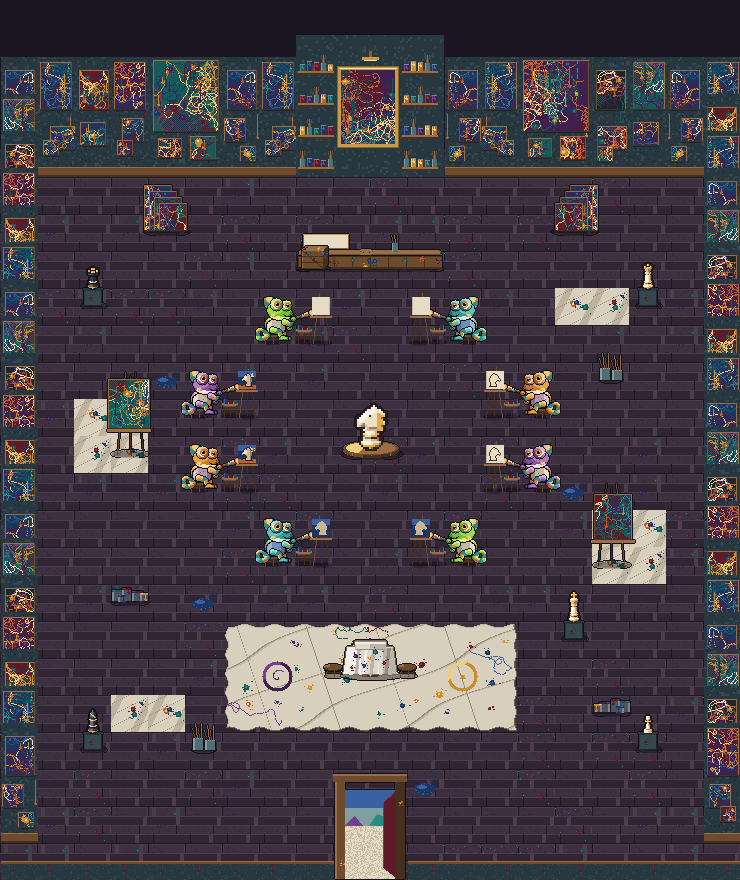
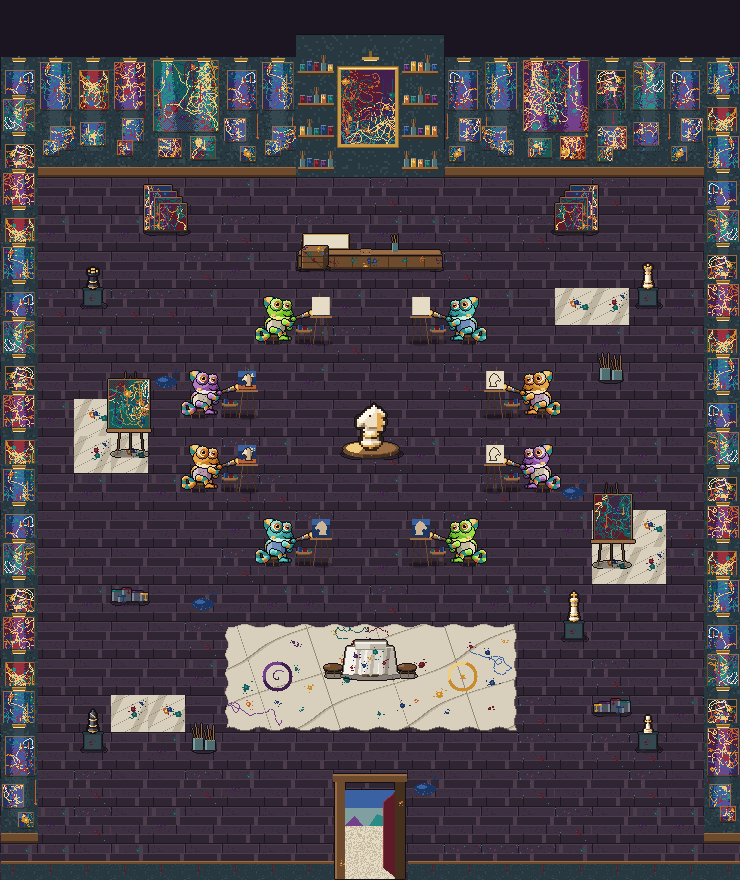
Smudgy's studio: gallery picture lights (Eric: "lighting that comes down on the walls like in an art gallery"): a brass lamp atop every wall panel, its warm cone baked into the panel, its bulb and its wash lit at every placement; no lamps over the floor, the room's brightness as it was; the unit tes
Claude-Session: https://claude.ai/code/session_01EKH5j59nMnRVnekEcuZbim

diff --git a/packages/app/src/town/shops/smudgy-art.ts b/packages/app/src/town/shops/smudgy-art.ts
@@ -190,6 +190,34 @@ function hang(c: Cv, x: number, y: number, w: number, h: number, seed: number, g
   abstract(c, x, y, w, h, seed, ground ?? ["B", "P", "T", "R", "9"][seed % 5]);
   frame(c, x, y, w, h);
 }
+/**
+ * A gallery picture light at the top of a panel (Eric, Nov 6: "lighting that comes down on the walls like in an art gallery"): a small
+ * brass hood on a short arm, its bulb strip under it (`L`, the light's keys), and its warm wash baked into the panel below it: a cone
+ * widening down the wall in which the plaster and the canvases' paints go a shade lighter (dithered at its edge), so the canvases glow
+ * where it falls. The room's light (SHOP_SMUDGY_LIGHTS) and the wash's soft glow (SHOP_SMUDGY_POOLS) are at every placement.
+ */
+export const PICTURE_LIGHT = { x: 18, bulbY: 15, top: 16, bottom: 104, w0: 5, w1: 15 } as const;
+const LIGHTER: Record<string, string> = { "9": "0", "0": "!", T: "t", B: "b", R: "r", P: "p", Y: "y", O: "y", V: "W", v: "V", g: "G" };
+function pictureLight(c: Cv) {
+  const L = PICTURE_LIGHT;
+  for (let y = L.top; y < L.bottom; y++) {
+    const u = (y - L.top) / (L.bottom - L.top);
+    const half = L.w0 + (L.w1 - L.w0) * u;
+    for (let x = 0; x < T; x++) {
+      const d = Math.abs(x + 0.5 - L.x) / half;
+      if (d > 1) continue;
+      // (Strongest near the lamp and the cone's middle; its edge and its far end dithered off.)
+      const keep = 1 - d * d * 0.7 - u * 0.5;
+      if (keep < 0.5 && hash(x, y, 99) > keep * 1.6) continue;
+      const k = c[y]![x]!;
+      if (LIGHTER[k]) c[y]![x] = LIGHTER[k]!;
+    }
+  }
+  rect(c, L.x - 1, 9, 2, 3, "M");
+  rect(c, L.x - 7, 11, 14, 3, "g");
+  rect(c, L.x - 7, 11, 14, 1, "G");
+  rect(c, L.x - 6, 14, 12, 1, "L");
+}
 const wallDef = (name: string, c: Cv) => def(name, [1, 1], T, WALL_H, WF, [[whole(c)]]);
 for (let i = 0; i < 6; i++) {
   const c = plaster(10 + i);
@@ -198,6 +226,7 @@ for (let i = 0; i < 6; i++) {
   hang(c, big[0]!, big[1]!, big[2]!, big[3]!, 30 + i * 7);
   hang(c, (i * 7) % 12 + 2, 72 + (i % 3) * 4, 20 + (i % 3) * 4, 22, 50 + i * 5);
   if (i % 3 !== 1) hang(c, 18 - (i % 2) * 12, 100 - (i % 2) * 6, 14, 14, 70 + i);
+  pictureLight(c);
   wallDef(`wall-${i}`, c);
 }
 /** One canvas so big it runs across two panels (the back wall's centerpieces): the west half and the east. */
@@ -213,6 +242,7 @@ for (const [n, seed] of [["wall-wide", 91], ["wall-wide-b", 92]] as const) {
   for (let half = 0; half < 2; half++) {
     const p = cv(T, WALL_H);
     for (let y = 0; y < WALL_H; y++) for (let x = 0; x < T; x++) p[y]![x] = c[y]![x + half * T]!;
+    pictureLight(p);
     wallDef(`${n}-${half}`, p);
   }
 }
@@ -593,11 +623,21 @@ for (const [v, colors] of PAINTER_COLORS.entries()) {
 /** The battle spot's table under its cloth (the room's own; in the intro the cloth is whipped off it: smudgy-intro-art.ts). */
 def("table", [2, 1], 3 * T, 60, [TCX, TFOOT], [[whole(coveredTableCv(), true)]]);
 
-// ==== Lights: the lamp over the backdrop's best piece; a warm pool on the life class's platform (a skylight's), one by the counter.
+// ==== Lights: the lamp over the backdrop's best piece; every wall panel's picture light and its wash; a warm pool on the life class's
+// platform (a skylight's), one by the counter.
 
 const WARM = "#ffd38a";
-export const SHOP_SMUDGY_LIGHTS: readonly (LightSpot & { piece: string })[] = [{ piece: "backdrop", x: LAMP.x - 8, y: LAMP.y + 2, w: 17, h: 3, keys: "GL", color: WARM, strength: 0.6, halo: 26 }];
+/** Every wall panel (the back wall's and the side walls'), each with its picture light. */
+export const WALL_PANELS: readonly string[] = [...[0, 1, 2, 3, 4, 5].map((i) => `wall-${i}`), "wall-wide-0", "wall-wide-1", "wall-wide-b-0", "wall-wide-b-1"];
+const PL = PICTURE_LIGHT;
+export const SHOP_SMUDGY_LIGHTS: readonly (LightSpot & { piece: string })[] = [
+  { piece: "backdrop", x: LAMP.x - 8, y: LAMP.y + 2, w: 17, h: 3, keys: "GL", color: WARM, strength: 0.6, halo: 26 },
+  // (Each panel's picture light: its bulb strip, a small halo round it.)
+  ...WALL_PANELS.map((piece) => ({ piece, x: PL.x - 6, y: PL.bulbY - 1, w: 12, h: 1, keys: "L", color: WARM, strength: 0.5, halo: 9 })),
+];
 export const SHOP_SMUDGY_POOLS: readonly (LightPool & { piece: string })[] = [
+  // (Each picture light's wash down its panel: a tall soft glow over the lit cone, on the wall.)
+  ...WALL_PANELS.map((piece) => ({ piece, x: PL.x, y: Math.round((PL.top + PL.bottom) / 2) - 8, rx: 11, ry: 30, color: "#ffd9a0", strength: 0.22 })),
   { piece: "platform", x: PLW / 2, y: PLF - 4, rx: 70, ry: 34, color: "#ffe2b0", strength: 0.28 },
   { piece: "backdrop", x: BDW / 2, y: BDH + 10, rx: 46, ry: 10, color: WARM, strength: 0.16 },
 ];

diff --git a/scripts/boss-art/out/house-shop-smudgy/house-shop-smudgy.ts b/scripts/boss-art/out/house-shop-smudgy/house-shop-smudgy.ts
@@ -190,6 +190,34 @@ function hang(c: Cv, x: number, y: number, w: number, h: number, seed: number, g
   abstract(c, x, y, w, h, seed, ground ?? ["B", "P", "T", "R", "9"][seed % 5]);
   frame(c, x, y, w, h);
 }
+/**
+ * A gallery picture light at the top of a panel (Eric, Nov 6: "lighting that comes down on the walls like in an art gallery"): a small
+ * brass hood on a short arm, its bulb strip under it (`L`, the light's keys), and its warm wash baked into the panel below it: a cone
+ * widening down the wall in which the plaster and the canvases' paints go a shade lighter (dithered at its edge), so the canvases glow
+ * where it falls. The room's light (SHOP_SMUDGY_LIGHTS) and the wash's soft glow (SHOP_SMUDGY_POOLS) are at every placement.
+ */
+export const PICTURE_LIGHT = { x: 18, bulbY: 15, top: 16, bottom: 104, w0: 5, w1: 15 } as const;
+const LIGHTER: Record<string, string> = { "9": "0", "0": "!", T: "t", B: "b", R: "r", P: "p", Y: "y", O: "y", V: "W", v: "V", g: "G" };
+function pictureLight(c: Cv) {
+  const L = PICTURE_LIGHT;
+  for (let y = L.top; y < L.bottom; y++) {
+    const u = (y - L.top) / (L.bottom - L.top);
+    const half = L.w0 + (L.w1 - L.w0) * u;
+    for (let x = 0; x < T; x++) {
+      const d = Math.abs(x + 0.5 - L.x) / half;
+      if (d > 1) continue;
+      // (Strongest near the lamp and the cone's middle; its edge and its far end dithered off.)
+      const keep = 1 - d * d * 0.7 - u * 0.5;
+      if (keep < 0.5 && hash(x, y, 99) > keep * 1.6) continue;
+      const k = c[y]![x]!;
+      if (LIGHTER[k]) c[y]![x] = LIGHTER[k]!;
+    }
+  }
+  rect(c, L.x - 1, 9, 2, 3, "M");
+  rect(c, L.x - 7, 11, 14, 3, "g");
+  rect(c, L.x - 7, 11, 14, 1, "G");
+  rect(c, L.x - 6, 14, 12, 1, "L");
+}
 const wallDef = (name: string, c: Cv) => def(name, [1, 1], T, WALL_H, WF, [[whole(c)]]);
 for (let i = 0; i < 6; i++) {
   const c = plaster(10 + i);
@@ -198,6 +226,7 @@ for (let i = 0; i < 6; i++) {
   hang(c, big[0]!, big[1]!, big[2]!, big[3]!, 30 + i * 7);
   hang(c, (i * 7) % 12 + 2, 72 + (i % 3) * 4, 20 + (i % 3) * 4, 22, 50 + i * 5);
   if (i % 3 !== 1) hang(c, 18 - (i % 2) * 12, 100 - (i % 2) * 6, 14, 14, 70 + i);
+  pictureLight(c);
   wallDef(`wall-${i}`, c);
 }
 /** One canvas so big it runs across two panels (the back wall's centerpieces): the west half and the east. */
@@ -213,6 +242,7 @@ for (const [n, seed] of [["wall-wide", 91], ["wall-wide-b", 92]] as const) {
   for (let half = 0; half < 2; half++) {
     const p = cv(T, WALL_H);
     for (let y = 0; y < WALL_H; y++) for (let x = 0; x < T; x++) p[y]![x] = c[y]![x + half * T]!;
+    pictureLight(p);
     wallDef(`${n}-${half}`, p);
   }
 }
@@ -593,11 +623,21 @@ for (const [v, colors] of PAINTER_COLORS.entries()) {
 /** The battle spot's table under its cloth (the room's own; in the intro the cloth is whipped off it: smudgy-intro-art.ts). */
 def("table", [2, 1], 3 * T, 60, [TCX, TFOOT], [[whole(coveredTableCv(), true)]]);
 
-// ==== Lights: the lamp over the backdrop's best piece; a warm pool on the life class's platform (a skylight's), one by the counter.
+// ==== Lights: the lamp over the backdrop's best piece; every wall panel's picture light and its wash; a warm pool on the life class's
+// platform (a skylight's), one by the counter.
 
 const WARM = "#ffd38a";
-export const SHOP_SMUDGY_LIGHTS: readonly (LightSpot & { piece: string })[] = [{ piece: "backdrop", x: LAMP.x - 8, y: LAMP.y + 2, w: 17, h: 3, keys: "GL", color: WARM, strength: 0.6, halo: 26 }];
+/** Every wall panel (the back wall's and the side walls'), each with its picture light. */
+export const WALL_PANELS: readonly string[] = [...[0, 1, 2, 3, 4, 5].map((i) => `wall-${i}`), "wall-wide-0", "wall-wide-1", "wall-wide-b-0", "wall-wide-b-1"];
+const PL = PICTURE_LIGHT;
+export const SHOP_SMUDGY_LIGHTS: readonly (LightSpot & { piece: string })[] = [
+  { piece: "backdrop", x: LAMP.x - 8, y: LAMP.y + 2, w: 17, h: 3, keys: "GL", color: WARM, strength: 0.6, halo: 26 },
+  // (Each panel's picture light: its bulb strip, a small halo round it.)
+  ...WALL_PANELS.map((piece) => ({ piece, x: PL.x - 6, y: PL.bulbY - 1, w: 12, h: 1, keys: "L", color: WARM, strength: 0.5, halo: 9 })),
+];
 export const SHOP_SMUDGY_POOLS: readonly (LightPool & { piece: string })[] = [
+  // (Each picture light's wash down its panel: a tall soft glow over the lit cone, on the wall.)
+  ...WALL_PANELS.map((piece) => ({ piece, x: PL.x, y: Math.round((PL.top + PL.bottom) / 2) - 8, rx: 11, ry: 30, color: "#ffd9a0", strength: 0.22 })),
   { piece: "platform", x: PLW / 2, y: PLF - 4, rx: 70, ry: 34, color: "#ffe2b0", strength: 0.28 },
   { piece: "backdrop", x: BDW / 2, y: BDH + 10, rx: 46, ry: 10, color: WARM, strength: 0.16 },
 ];

diff --git a/packages/app/test/shop-smudgy.test.ts b/packages/app/test/shop-smudgy.test.ts
@@ -1,11 +1,11 @@
 import { afterEach, describe, expect, it, vi } from "vitest";
 import { BOSS_CRATES, adminFirst, bossCrateOf, bossDef, itemDef } from "@chessroyale/core";
-import { KNIGHT_TURN, LIFE_CLASS, PAINTERS, PAINTER_LOOP, SHOP_SMUDGY_CRATE_AT, SHOP_SMUDGY_LAYOUT, SHOP_SMUDGY_MARKS, SHOP_SMUDGY_PIECES, SHOP_SMUDGY_TABLE_AT, painterPose, stageOf } from "../src/town/shops/smudgy-art.ts";
+import { KNIGHT_TURN, LIFE_CLASS, PICTURE_LIGHT, SHOP_SMUDGY_LIGHTS, SHOP_SMUDGY_POOLS, WALL_PANELS, PAINTERS, PAINTER_LOOP, SHOP_SMUDGY_CRATE_AT, SHOP_SMUDGY_LAYOUT, SHOP_SMUDGY_MARKS, SHOP_SMUDGY_PIECES, SHOP_SMUDGY_TABLE_AT, painterPose, stageOf } from "../src/town/shops/smudgy-art.ts";
 import { INTRO_SMUDGY_CLOTH, INTRO_SMUDGY_TABLE, WHIP_BOARD_FRAME } from "../src/town/shops/smudgy-intro-art.ts";
 import { sidekickSmudgyKeeper } from "../src/characters/sidekicks/smudgykeeper.ts";
 import { SMUDGY_LINES } from "../src/characters/smudgy.ts";
 import { SMUDGY_SOUNDS, smudgySound } from "../src/characters/smudgy-sounds.ts";
-import { findPath, inTalkRange, isFloor, makeRoom, tapTarget, walkable } from "../src/town/shops/room.ts";
+import { findPath, inTalkRange, isFloor, lightsAt, makeRoom, tapTarget, walkable } from "../src/town/shops/room.ts";
 import { SHOPS, holdLine, priceLine, prizeRows } from "../src/town/shops/shops.ts";
 import { CHALLENGE_FEEL, chantOf, clothAnims, hopStart, introAt, introBeats, introCues, introLength, introOf, marksOf, seatedMarks, type IntroStep } from "../src/town/shops/challenge.ts";
 import { splatTimes, strokeAt } from "../src/town/shops/smudgy-splatter.ts";
@@ -85,6 +85,31 @@ describe("Smudgy's studio", () => {
     expect(BOTS.find((b) => b.boss === "smudgy")).toMatchObject({ name: "Dabble", look: { sprite: SIDEKICK_SHEETS.smudgy } });
     // (Its smock and glasses on every frame.)
     for (const a of ["idle", "walk", "sit", "wave"]) for (const f of sidekickSmudgyKeeper.anims[a]!.frames) expect(f.layers.map((l) => l.part)).toEqual(expect.arrayContaining(["smock", "glasses"]));
+  });
+});
+
+describe("the gallery's picture lights (Eric, Nov 6: \"lighting that comes down on the walls like in an art gallery\")", () => {
+  it("every wall panel has its picture light at the top and its wash down the wall, lit at every placement (the back wall's and both side walls', the east mirrored); none over the floor", () => {
+    const panels = SHOP_SMUDGY_LAYOUT.filter((p) => WALL_PANELS.includes(p.name));
+    expect(panels.length).toBe(16 + 36);
+    const halos = lightsAt(SHOP_SMUDGY_LIGHTS, panels, (l) => !!l.halo);
+    const pools = lightsAt(SHOP_SMUDGY_POOLS, panels);
+    expect(halos).toHaveLength(panels.length);
+    expect(pools).toHaveLength(panels.length);
+    for (const { l } of pools) {
+      // On the wall (above the panel's foot, 129), under the lamp, over the canvases: not on the floor.
+      expect(l.y + l.ry).toBeLessThan(PICTURE_LIGHT.bottom);
+      expect(l.y - l.ry).toBeGreaterThan(PICTURE_LIGHT.bulbY);
+    }
+    // Every other light or pool is the backdrop's lamp, the platform's skylight pool and the counter's: the floor's light is as it was.
+    expect(SHOP_SMUDGY_LIGHTS.filter((l) => !WALL_PANELS.includes(l.piece)).map((l) => l.piece)).toEqual(["backdrop"]);
+    expect(SHOP_SMUDGY_POOLS.filter((l) => !WALL_PANELS.includes(l.piece)).map((l) => l.piece)).toEqual(["platform", "backdrop"]);
+    // The lamp's bulb strip is drawn on every panel, where its light says.
+    for (const name of WALL_PANELS) {
+      const ch = SHOP_SMUDGY_PIECES[name]!;
+      const grid = ch.parts[ch.anims.idle!.frames[0]!.layers[0]!.part]!.grid;
+      expect(grid[PICTURE_LIGHT.bulbY - 1]!.slice(PICTURE_LIGHT.x - 6, PICTURE_LIGHT.x + 6), name).toBe("L".repeat(12));
+    }
   });
 });
 

diff --git a/docs/decisions/2026-11-06-smudgy-home.md b/docs/decisions/2026-11-06-smudgy-home.md
@@ -53,6 +53,18 @@ to everyone.
   splats, not every one, `smudgySwipe` the stroke).
 - **The room's ceiling:** dark beams over a skylight's pale glow (`roof: "studio"`); the chat's night tone (a dark room).
 
+## The gallery's lights (after the first look)
+Eric, looking at the room: "Can you add lights, it's kinda depressing in there, some overhead lighting." Then: "Never mind, I see the
+one on the chess piece, that's probably enough." His final call, a compromise: **"lighting that comes down on the walls like in an art
+gallery"**. So, and only this:
+- Every wall panel (the back wall's 16 and both side walls' 36) has a small brass picture light at its top. Its warm wash is baked into
+  the panel's pixels (a cone widening down the wall, `PICTURE_LIGHT`, where the plaster and the canvases' paints go a shade lighter,
+  dithered at its edge), so the canvases glow where it falls, at no cost a frame.
+- On top of that, the room's own lights at every placement (`SHOP_SMUDGY_LIGHTS`: each bulb strip with a small halo) and a soft
+  tall glow over each cone (`SHOP_SMUDGY_POOLS`, on the wall, not the floor), drawn as Folio's and Hollow's are; off screen, skipped.
+- No lamps over the floor and no change to the room's brightness: the floor, the life class (its platform's skylight pool, the one
+  Eric saw) and the table are as they were.
+
 ## Numbers
 `CHALLENGE_FEEL.smudgy`: line 2.5 s, grab 0.3 s, the whip 0.75 s (its frames), the reveal's lead 0.25 s, the reveal 2.4 s, a beat
 0.3 s; the splatter: cover 1.2 s (gaps from 150 ms down to 12 ms, two splats at a time), hold at least 0.25 s, wipe 0.5 s.

diff --git a/docs/areas/town-square.md b/docs/areas/town-square.md
@@ -634,7 +634,7 @@ and [2026-11-02-bigger-showpieces.md](../decisions/2026-11-02-bigger-showpieces.
   one 32-frame loop (8 s: the canvas blank, outline, blocked colors, finished; a brush dip each stage) shared by all, each painter
   `ShopPlace.t0` into it (an eighth apart; ShopRoom draws a piece's frame at `now + t0`). Its battle spot is a drop cloth (24 flat
   `circle-<col>-<row>` tiles, columns 6-13, rows 13-15), its marks `SHOP_SMUDGY_MARKS` (7, 14) and (12, 14), the round table under its
-  white cloth (`table`, solid) between them with its stools. Its roof: dark beams over a skylight (`roof: "studio"`). Its Shopkeeper, the
+  white cloth (`table`, solid) between them with its stools. Its roof: dark beams over a skylight (`roof: "studio"`). Gallery picture lights (Eric: "lighting that comes down on the walls like in an art gallery"): a brass lamp atop every wall panel, its warm cone baked into the panel and lit at every placement (`SHOP_SMUDGY_LIGHTS`, `SHOP_SMUDGY_POOLS` on the wall). Its Shopkeeper, the
   gallery owner (`characters/sidekicks/smudgykeeper.ts`: Dabble's rig, gray-green, an oxblood smock and gold half-moon glasses; baked;
   not a town bot: Dabble stays Smudgy's kid), behind the counter on (9, 2) and (10, 2). "Smudgy's Boss Crate" with the Brush Ride. The
   chat's night tone. docs/decisions/2026-11-06-smudgy-home.md.
